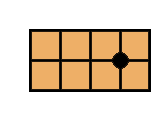
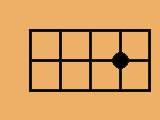
added css for game board

diff --git a/src/fiveInRow/fiveInRow.js b/src/fiveInRow/fiveInRow.js
@@ -1,7 +1,7 @@
 import React from 'react';
 import {MyHeader} from '../base';
 import 'bootstrap/dist/css/bootstrap.css';
-import '../index.css';
+import './fiveInRow.css';
 
 export default class FiveInRow extends React.Component {
   componentWillMount() {
@@ -17,23 +17,23 @@ export default class FiveInRow extends React.Component {
     }
     this.state = {
       boardSize: boardSize,
-      xIsNext: true,
+      blackIsNext: true,
       squares: squares
     };
   }
   handleClick(row, col) {
-    if (this.state.winner) {
+    let squares = this.state.squares;
+    if (this.state.winner || squares[row][col]) {
       return;
     }
-    let squares = this.state.squares;
-    squares[row][col] = this.state.xIsNext? 'X': 'O';
+    squares[row][col] = this.state.blackIsNext? 'b': 'w';
     let winner = null;
     if (calculateWinner(squares, [row, col])) {
-      winner = this.state.xIsNext? 'X': 'O';
+      winner = this.state.blackIsNext? 'b': 'w';
     }
     this.setState({
       squares: squares,
-      xIsNext: !this.state.xIsNext,
+      blackIsNext: !this.state.blackIsNext,
       winner: winner
       }
     );
@@ -67,8 +67,8 @@ export default class FiveInRow extends React.Component {
 
 function Square(props) {
   return (
-    <button className="square" onClick={props.onClick}>
-      {props.value}
+    <button className={props.pieceClass} onClick={props.onClick}>
+      <div className={props.spanClass} />
     </button>
   );
 }
@@ -76,9 +76,39 @@ function Square(props) {
 
 class Board extends React.Component {
   renderSquare(row, col) {
+    const boardSize = this.props.boardSize;
+    let spanClass = null;
+    if (this.props.squares[row][col] === 'b') {
+      spanClass = 'spanBlack';
+    } else if (this.props.squares[row][col] === 'w') {
+      spanClass = 'spanWhite';
+    }
+
+    let pieceClass = '';
+
+    if (row === 0 && col === 0) {
+      pieceClass = 'piece pieceLeftTop';
+    } else if (row === boardSize - 1 && col === 0) {
+      pieceClass = 'piece pieceLeftBottom';
+    } else if (row === 0 && col === boardSize - 1) {
+      pieceClass = 'piece pieceRightTop';
+    } else if (row === boardSize - 1 && col === boardSize - 1) {
+      pieceClass = 'piece pieceRightBottom';
+    } else if (row === 0 && 0 < col < boardSize - 1) {
+      pieceClass = 'piece pieceTop';
+    } else if (row === boardSize - 1 && 0 < col < boardSize - 1) {
+      pieceClass = 'piece pieceBottom';
+    } else if (0 < row < boardSize - 1 && col === 0) {
+      pieceClass = 'piece pieceLeft';
+    } else if (0 < row < boardSize - 1 && col === boardSize - 1) {
+      pieceClass = 'piece pieceRight';
+    } else {
+      pieceClass = 'piece pieceNormal';
+    }
     return (
       <Square
-        value={this.props.squares[row][col]}
+        pieceClass={pieceClass}
+        spanClass={spanClass}
         onClick={() => this.props.onClick(row, col)}
       />
     )

diff --git a/src/fiveInRow/fiveInRow.css b/src/fiveInRow/fiveInRow.css
@@ -1,0 +1,81 @@
+.board-row:after {
+  clear: both;
+  content: "";
+  display: table;
+}
+
+.board-background {
+  background-color: #eeaf67;
+}
+
+.piece {
+  border: 0;
+  display: inline-block;
+  cursor: pointer;
+  float: left;
+  font-size: 24px;
+  font-weight: bold;
+  height: 42px;
+  width: 42px;
+  padding: 0;
+  text-align: center;
+  background-image: url(piece.png);
+}
+
+.pieceNormal {
+  background-position: -40px -40px;
+}
+
+.pieceTop {
+  background-position: -40px -10px;
+}
+
+.pieceBottom {
+  background-position: -40px -70px;
+}
+
+.pieceLeft {
+  background-position: -10px -40px;
+}
+
+.pieceRight {
+  background-position: -130px -40px;
+}
+
+.pieceLeftTop {
+  background-position: -10px -10px;
+}
+
+.pieceRightTop {
+  background-position: -130px -10px;
+}
+
+.pieceLeftBottom {
+  background-position: -10px -70px;
+}
+
+.pieceRightBottom {
+  background-position: -130px -70px;
+}
+
+.spanNone {
+  display: none;
+}
+
+.spanBlack {
+  display: block;
+  width: 80%;
+  height: 80%;
+  border-radius: 50%;
+  background-color: black;
+  box-shadow: .01rem .01rem .1rem rgba(0, 0, 0, .5), 0 0 .05rem rgba(240, 240, 240, .5), .05rem .05rem .01rem rgba(255, 255, 255, .15) inset, .1rem .1rem .1rem rgba(255, 255, 255, .05) inset, -.05rem -.05rem .25rem rgba(0, 0, 0, .15) inset, -.1rem -.1rem .35rem rgba(0, 0, 0, .05) inset;
+}
+
+.spanWhite {
+  display: block;
+  width: 80%;
+  height: 80%;
+  border-radius: 50%;
+  background-color: white;
+  box-shadow: .01rem .01rem .1rem rgba(0, 0, 0, .5), 0 0 .05rem rgba(240, 240, 240, .5), .05rem .05rem .01rem rgba(255, 255, 255, .15) inset, .1rem .1rem .1rem rgba(255, 255, 255, .05) inset, -.05rem -.05rem .25rem rgba(0, 0, 0, .15) inset, -.1rem -.1rem .35rem rgba(0, 0, 0, .05) inset;
+}
